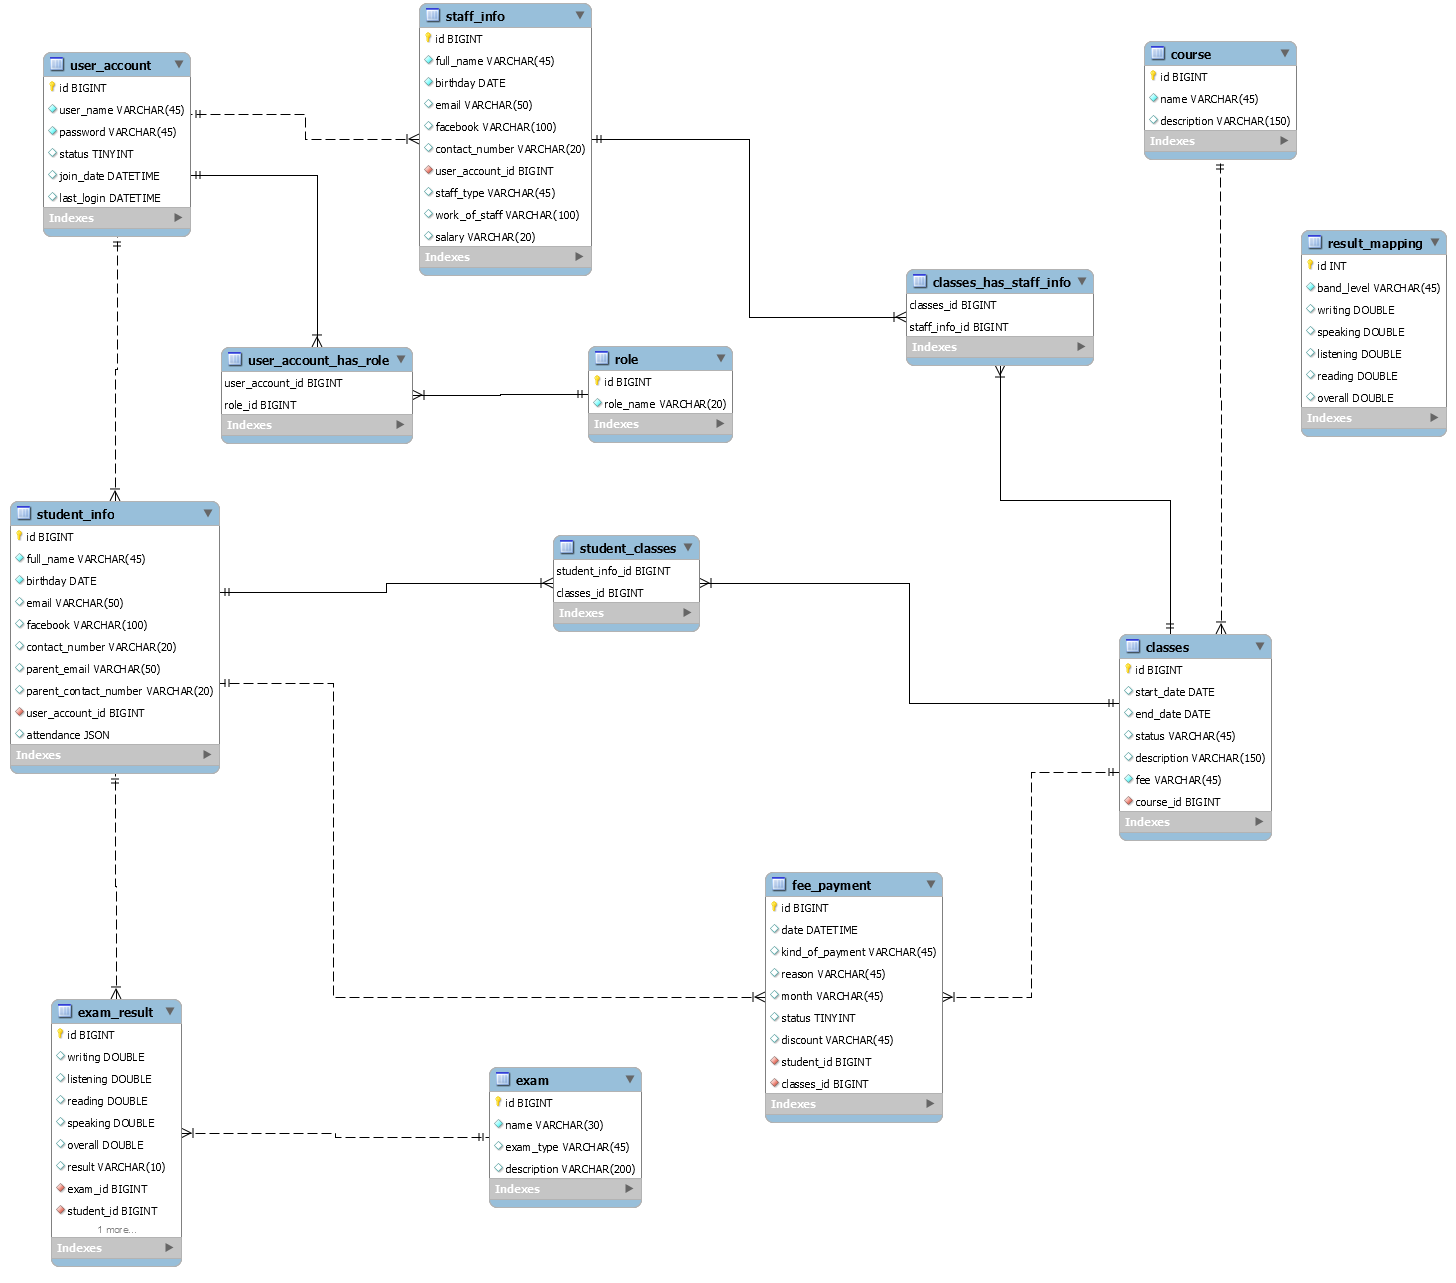
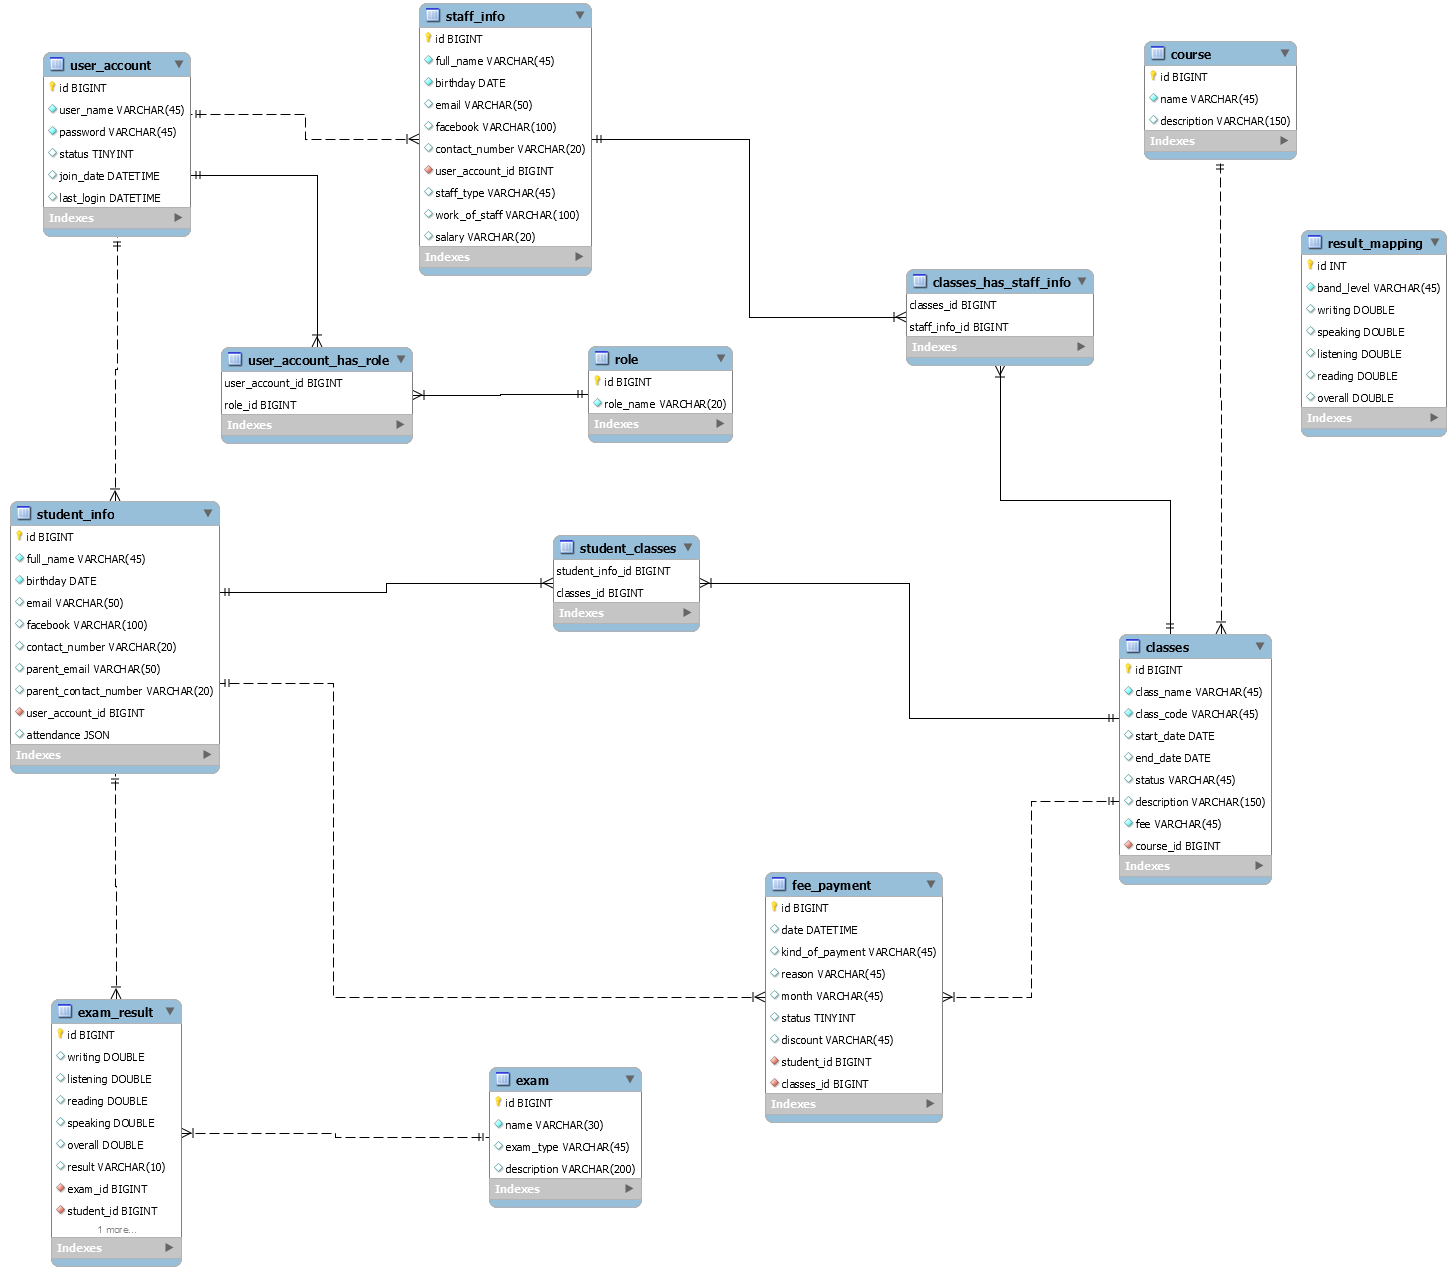
add class_name and class_code into classes table

Changed region(s): [[0.7418, 0.53, 0.8963, 0.7171]]

diff --git a/src/main/java/com/project/english/gemmy/controller/StudentInfoController.java b/src/main/java/com/project/english/gemmy/controller/StudentInfoController.java
@@ -59,15 +59,15 @@ public class StudentInfoController {
 		return new ResponseEntity<>(HttpStatus.BAD_REQUEST);
 	}
 	
-	@GetMapping("/{searchText}")
-	public ResponseEntity<List<StudentInfo>> searchStudentByName(@PathVariable String searchText) {
-		List<StudentInfo> studentInfoLst = studentInfoService.getAllStudent();
-		if (studentInfoLst != null) {
-			HttpHeaders httpHeaders = new HttpHeaders();
-			return ResponseEntity.ok().headers(httpHeaders).body(studentInfoLst);
-		}
-		return new ResponseEntity<>(HttpStatus.NOT_FOUND);
-	}
+//	@GetMapping("/{searchText}")
+//	public ResponseEntity<List<StudentInfo>> searchStudentByName(@PathVariable String searchText) {
+//		List<StudentInfo> studentInfoLst = studentInfoService.searchStudent(searchText);
+//		if (studentInfoLst != null) {
+//			HttpHeaders httpHeaders = new HttpHeaders();
+//			return ResponseEntity.ok().headers(httpHeaders).body(studentInfoLst);
+//		}
+//		return new ResponseEntity<>(HttpStatus.NOT_FOUND);
+//	}
 	
 	@PostMapping("/")
 	public ResponseEntity<StudentInfo> createStudentInfo(@RequestBody UpdateInfoRequest updateInfoRequest) {

diff --git a/src/main/java/com/project/english/gemmy/service/StudentInfoService.java b/src/main/java/com/project/english/gemmy/service/StudentInfoService.java
@@ -58,6 +58,10 @@ public class StudentInfoService {
 		return null;
 	}
 	
+//	public StudentInfo searchStudent(String searchText) {
+//		
+//	}
+	
 	public boolean deleteStudent(Long id) {
 		Optional<StudentInfo> studentInfo = studentInfoRepo.findById(id);
 		if (studentInfo.isPresent()) {
